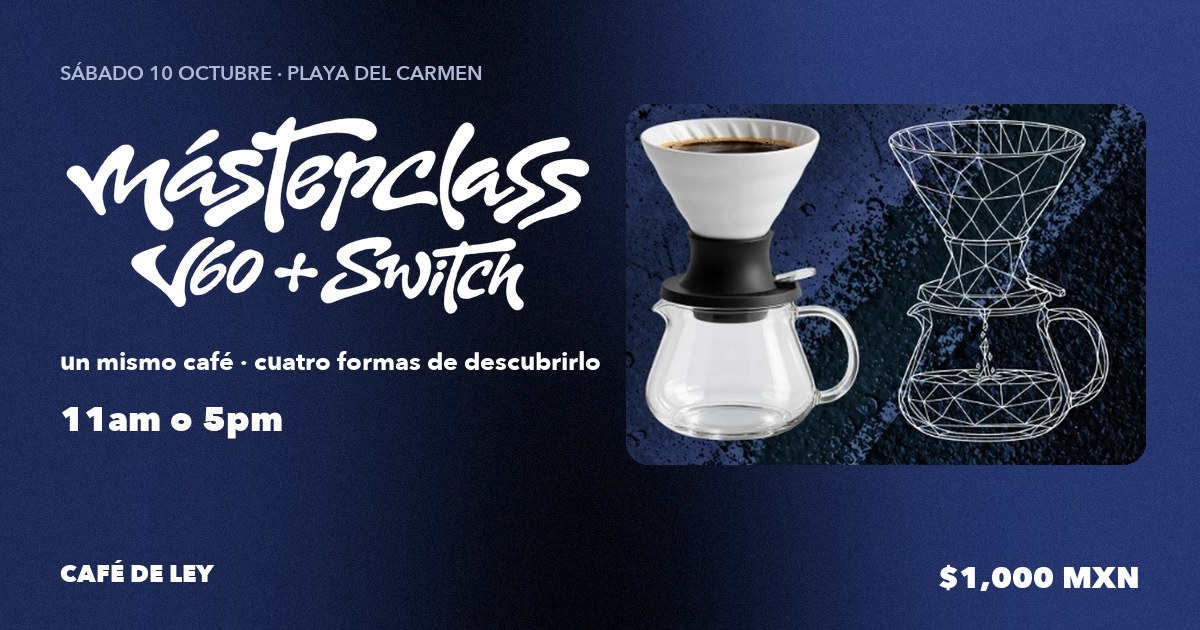
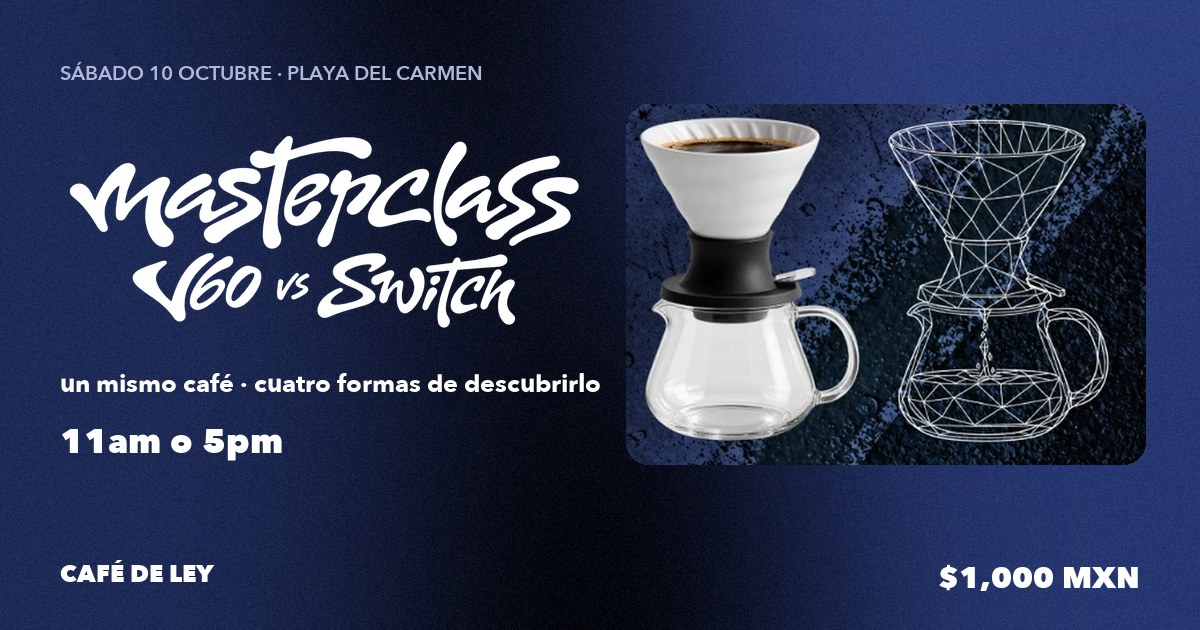
Add files via upload

Changed region(s): [[0.0308, 0.181, 0.4933, 0.5127], [0.0308, 0.5429, 0.5242, 0.7238]]

diff --git a/index.html b/index.html
@@ -12,7 +12,7 @@
 <meta property="og:image" content="https://msanchezm9714-lgtm.github.io/Masterclass-Hario-Switch-V60/og-image.jpg">
 <meta property="og:image:width" content="1200">
 <meta property="og:image:height" content="630">
-<meta property="og:image:alt" content="Masterclass V60 + Switch — Café de Ley, sábado 10 de octubre en Playa del Carmen">
+<meta property="og:image:alt" content="Masterclass V60 vs Switch — Café de Ley, sábado 10 de octubre en Playa del Carmen">
 <meta name="twitter:card" content="summary_large_image">
 <meta name="twitter:image" content="https://msanchezm9714-lgtm.github.io/Masterclass-Hario-Switch-V60/og-image.jpg">
 <link rel="icon" type="image/svg+xml" href="favicon.svg">
@@ -203,7 +203,7 @@ footer img{height:34px;margin:0 auto 14px}
       <span>Playa del Carmen</span>
     </div>
     <h1>
-      <img class="wordmark" src="wordmark.png" width="1740" height="675" alt="Masterclass V60 + Switch">
+      <img class="wordmark" src="wordmark.png" width="1904" height="850" alt="Masterclass V60 vs Switch">
     </h1>
     <p class="tagline">un mismo café · cuatro formas de descubrirlo</p>
     <img class="duo" src="switch-duo.webp" width="900" height="626" alt="Hario Switch con V60 junto a su esquema en líneas">
@@ -288,13 +288,13 @@ footer img{height:34px;margin:0 auto 14px}
         <small>Horario 1</small>
         <div class="t">11:00 am</div>
         <div class="d">Sábado 10 de octubre</div>
-        <a class="btn" href="https://wa.me/529841070040?text=Quiero%20reservar%20mi%20lugar%20para%20la%20Masterclass%20de%20este%20Sabado%2010%20de%20Octubre%20a%20las%2011am" target="_blank" rel="noopener">Reservar 11am</a>
+        <a class="btn" href="https://wa.me/529841070040?text=Quiero%20reservar%20mi%20lugar%20para%20la%20Masterclass%20de%20este%20Sabado%2010%20de%20Octubre%20a%20las%2011am" target="_blank" rel="noopener">Reservar</a>
       </div>
       <div class="slot">
         <small>Horario 2</small>
         <div class="t">5:00 pm</div>
         <div class="d">Sábado 10 de octubre</div>
-        <a class="btn" href="https://wa.me/529841070040?text=Quiero%20reservar%20mi%20lugar%20para%20la%20Masterclass%20de%20este%20Sabado%2010%20de%20Octubre%20a%20las%205pm" target="_blank" rel="noopener">Reservar 5pm</a>
+        <a class="btn" href="https://wa.me/529841070040?text=Quiero%20reservar%20mi%20lugar%20para%20la%20Masterclass%20de%20este%20Sabado%2010%20de%20Octubre%20a%20las%205pm" target="_blank" rel="noopener">Reservar</a>
       </div>
     </div>
     <div class="price">
